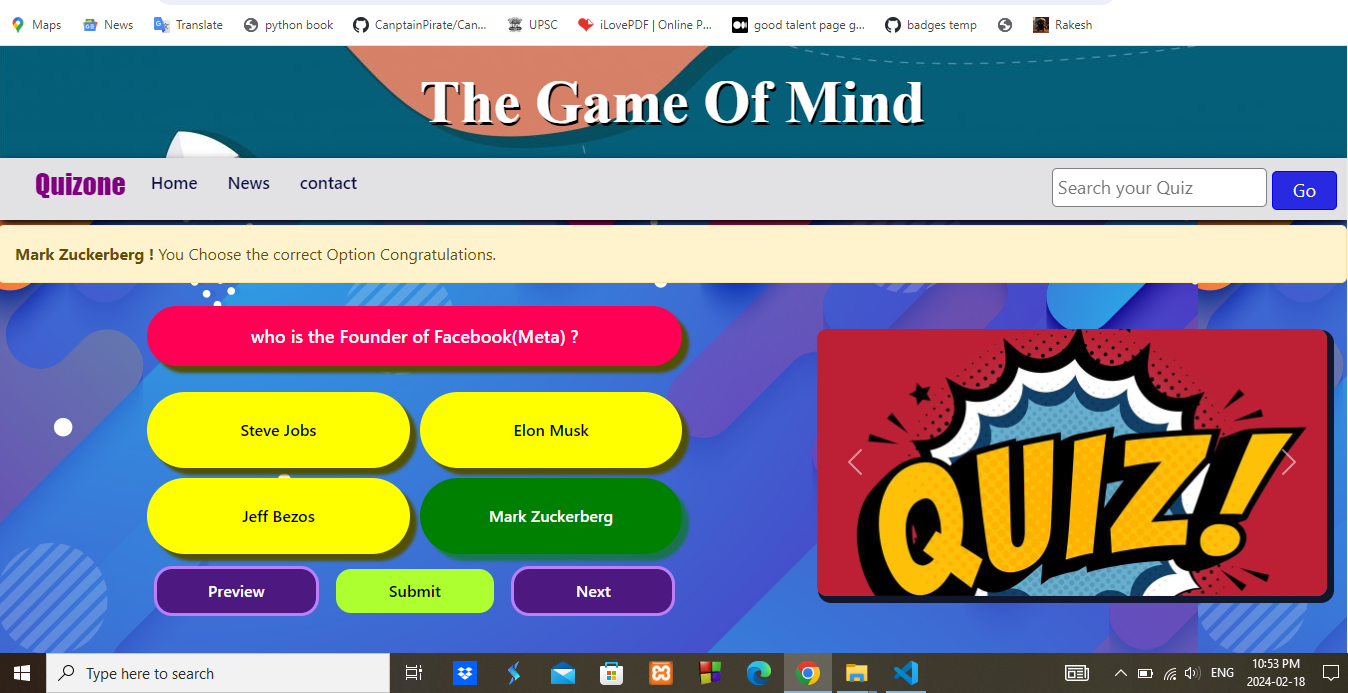
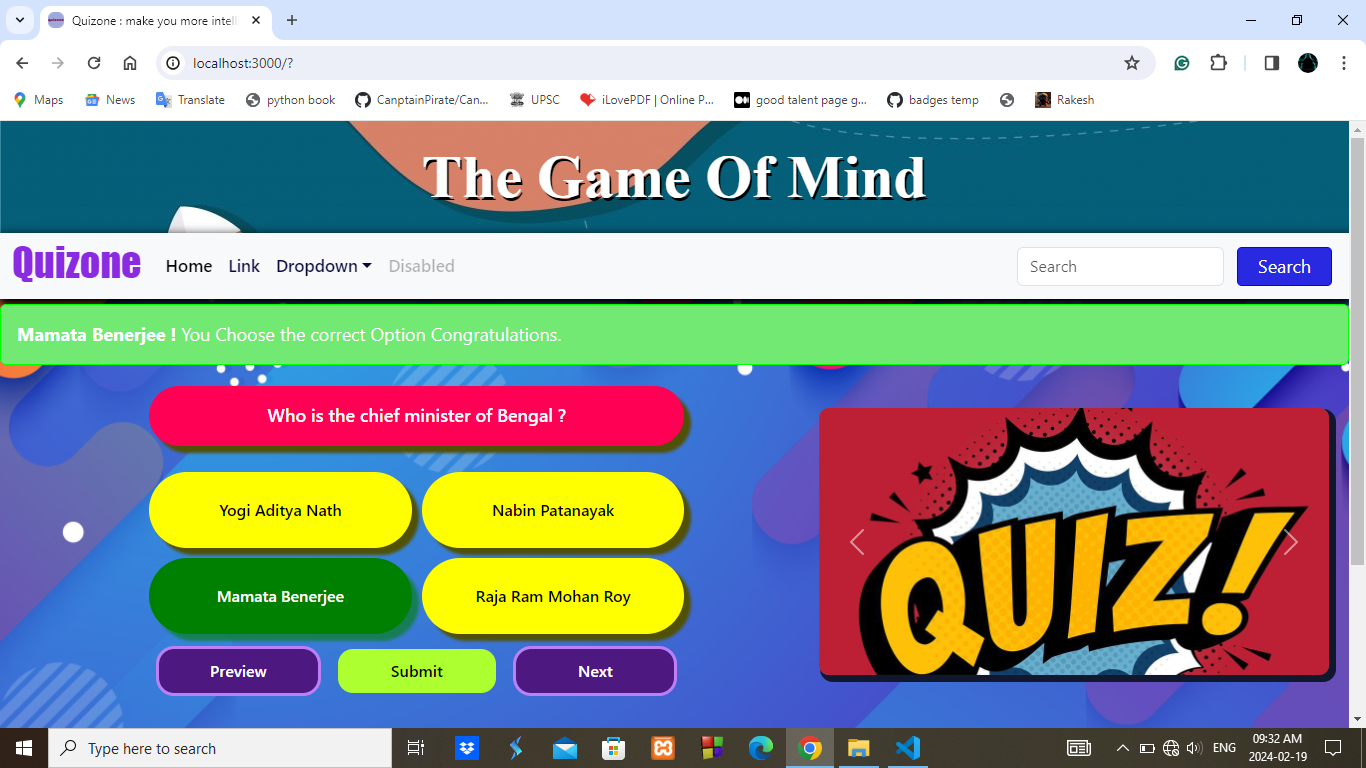
Some changes in styleSheet

diff --git a/src/components/Question.js b/src/components/Question.js
@@ -20,6 +20,7 @@ export default function Question() {
             setCurrentIndex((prevIndex) => (prevIndex + 1) % data.length);
         optElement.style = "";
     };
+
     const handlePrev = () => {
         if (currentIndex !== 0)
             setCurrentIndex((prevIndex) => (prevIndex === 0 ? data.length - 1 : prevIndex - 1));
@@ -27,7 +28,6 @@ export default function Question() {
     };
 
     const sendAnswer = (el) => {
-        // let temp2 = el.target.innerText.toLowerCase().replace(/\s/g, '')
         getAnswer(el.target.innerText);
         setOptElement(el.target);
         el.target.style = "background : orange !important;"
@@ -38,25 +38,30 @@ export default function Question() {
 
         if (answer !== null) {
             if (answer.toLowerCase().replace(/\s/g, '') === data[currentIndex]?.correctOpt.toLowerCase().replace(/\s/g, '')) {
-                document.getElementById('alertbox').innerHTML = `<strong>${answer} !</strong> You Choose the correct Option Congratulations.`
+                document.getElementById('alertbox').innerHTML = `<strong>${answer} !</strong> You Choose the correct Option Congratulations.`;
+
                 optElement.style = "background: green ; box-shadow:  7px 7px 3px 0px rgba(0, 128, 0, 0.603); color:#fff;";
                 document.getElementById('alertbox').classList.toggle('show');
                 setTimeout(() => {
                     document.getElementById('alertbox').classList.toggle('show');
+
                     optElement.style = '';
                     getAnswer(null)
                 }, 3000);
             }
             else {
                 document.getElementById('alertbox').innerHTML = `<strong>${answer} !</strong> Ohh No, you Choose the wrong option`;
+                document.getElementById('alertbox').classList.add('AlertWrong');
                 optElement.style = "background: red; color:#fff";
                 setTimeout(() => {
+
                     optElement.style = "";
                     getAnswer(null)
                 }, 1000);
                 document.getElementById('alertbox').classList.toggle('show');
                 setTimeout(() => {
                     document.getElementById('alertbox').classList.toggle('show');
+                    document.getElementById('alertbox').classList.remove('AlertWrong');
                 }, 3000);
             }
         }

diff --git a/src/components/Navigation.js b/src/components/Navigation.js
@@ -1,0 +1,47 @@
+import React from 'react'
+import './Navigation.css';
+
+export default function Navigation() {
+
+  return (
+
+    <nav className="navbar navbar-expand-lg bg-body-tertiary my-navbar">
+  <div className="container-fluid">
+    <a className="navbar-brand" href="!"><h1>Quizone</h1></a>
+    <button className="navbar-toggler" type="button" data-bs-toggle="collapse" data-bs-target="#navbarSupportedContent" aria-controls="navbarSupportedContent" aria-expanded="false" aria-label="Toggle navigation">
+      <span className="navbar-toggler-icon"></span>
+    </button>
+    <div className="collapse navbar-collapse" id="navbarSupportedContent">
+      <ul className="navbar-nav me-auto mb-2 mb-lg-0">
+        <li className="nav-item">
+          <a className="nav-link active" aria-current="page" href="/">Home</a>
+        </li>
+        <li className="nav-item">
+          <a className="nav-link" href="/">Link</a>
+        </li>
+        <li className="nav-item dropdown">
+          <a className="nav-link dropdown-toggle" href="/" role="button" data-bs-toggle="dropdown" aria-expanded="false">
+            Dropdown
+          </a>
+          <ul className="dropdown-menu">
+            <li><a className="dropdown-item" href="/">Action</a></li>
+            <li><a className="dropdown-item" href="/">Another action</a></li>
+            <li><hr className="dropdown-divider" /></li>
+            <li><a className="dropdown-item" href="/">Something else here</a></li>
+          </ul>
+        </li>
+        <li className="nav-item">
+          <a className="nav-link disabled" aria-disabled="true" href='/'>Disabled</a>
+        </li>
+      </ul>
+      <form className="d-flex" role="search">
+        <input className="form-control me-2" type="search" placeholder="Search" aria-label="Search" />
+        <button className="btn btn-outline-success" type="button">Search</button>
+      </form>
+    </div>
+  </div>
+</nav>
+
+  )  
+
+} 

diff --git a/src/components/Content.css b/src/components/Content.css
@@ -7,7 +7,9 @@
     justify-content: space-around;
     margin: 0px 0px;
     background-image: url('./images/main-bg.jpg');
-    padding: 0px 20px;
+    background-repeat: no-repeat;
+    background-size: cover;
+    padding: 10px 20px;
 
 }
 
@@ -20,13 +22,22 @@
     position: absolute;
     margin: 5px 0px;
     width: 100%;
+    background: #72e972;
+    border: 0.4px solid #00ff00;
+    color: #fff;
+    font-size: 18px;
+}
+
+.AlertWrong {
+    background: #f17878 !important;
+    border: 0.4px solid #cf2222;
 }
 
 .quiz-box {
     margin: 5px 0px;
     flex: 2;
     display: flex;
-    flex-flow: row wrap;
+    flex-flow: column wrap;
     justify-content: center;
     align-items: center;
     background-repeat: no-repeat;
@@ -34,14 +45,14 @@
 }
 
 .mycarousel {
-    width: 39%;
+    width: 100%;
     border-radius: 10px;
     overflow: hidden;
 }
 
 /* Style for Question.js file */
 .question-container {
-    width: 70%;
+    width: 100%;
     height: 50%;
     display: grid;
     grid-template-columns: repeat(2, 1fr);
@@ -154,4 +165,32 @@
 
 .wrongAns {
     background: red;
+}
+
+@media screen and (min-width:780px) {
+    .quiz-box {
+        flex-flow: row wrap;
+    }
+
+    .question-container {
+        width: 70%;
+    }
+
+    .mycarousel {
+        width: 39%;
+    }
+}
+
+@media screen and (width:912px) {
+    .quiz-box {
+        flex-flow: column wrap;
+    }
+
+    .main-container {
+        width: 100%;
+    }
+
+    .mycarousel {
+        width: 100%;
+    }
 }

diff --git a/src/components/Content.js b/src/components/Content.js
@@ -2,15 +2,15 @@ import React from 'react'
 import './Content.css';
 import Question from './Question';
 
-import CarousalImage1 from './images/quiz-slide1.jpg'
-import CarousalImage2 from './images/quiz-slid2.jpg'
-import CarousalImage3 from './images/quiz-slid3.jpg'
+import CarousalImage1 from './images/quiz-slide1.jpg';
+import CarousalImage2 from './images/quiz-slid2.jpg';
+import CarousalImage3 from './images/quiz-slid3.jpg';
 
 export default function Content() {
   return (
     <>
-      <div className="alert alert-warning alert-dismissible fade my-alert" id='alertbox' role="alert">
-        <strong>Narendra Modi !</strong> You Choose the correct option Congratulations.
+      <div className="alert alert-warning alert-dismissible fade my-alert " id='alertbox' role="alert">
+
       </div>
       <main className='main-container'>
 

diff --git a/public/index.html b/public/index.html
@@ -6,11 +6,13 @@
   <meta name="viewport" content="width=device-width, initial-scale=1" />
   <meta name="theme-color" content="#000000" />
   <meta name="description" content="Web site created using create-react-app" />
-  <link rel="apple-touch-icon" href="%PUBLIC_URL%/logo192.png" />
+  <link rel="apple-touch-icon" href="%PUBLIC_URL%/logo192.png" /> 
+  <!-- FavIcons -->
   <link rel="apple-touch-icon" sizes="180x180" href="/apple-touch-icon.png">
   <link rel="icon" type="image/png" sizes="32x32" href="/favicon-32x32.png">
   <link rel="icon" type="image/png" sizes="16x16" href="/favicon-16x16.png">
 
+  <!-- Bootstrap stylesheet -->
   <link rel="stylesheet" href="https://cdn.jsdelivr.net/npm/bootstrap@5.3.2/dist/css/bootstrap.min.css">
 
   

diff --git a/src/components/Heading.css b/src/components/Heading.css
@@ -1,9 +1,8 @@
 .app-header {
-    /* border: 1px solid orange; */
-    /* height: 200px; */
+    height: 150px;
     display: flex;
     flex-flow: column wrap;
-    justify-content: space-between;
+    justify-content: center;
     color: #fff;
     text-transform: capitalize;
     font-size: 25px;
@@ -14,7 +13,17 @@
 .app-header h1 {
     font-family: 'Times New Roman', Times, serif;
     font-weight: 900;
-    font-size: 60px;
-    margin: 20px 0px;
+    font-size: 40px;
+    margin: 10px 0px;
     align-self: center;
+}
+
+@media screen and (min-width:780px) {
+    .app-header {
+        height: auto;
+    }
+    .app-header h1 {
+        font-size: 60px;
+        margin: 20px 0px;
+    }
 }

diff --git a/src/components/Heading.js b/src/components/Heading.js
@@ -1,6 +1,6 @@
-import React from 'react'
-import Navbar from './Navbar'
-import PropTypes from 'prop-types'
+import React from 'react';
+import PropTypes from 'prop-types';
+import Navigation from './Navigation';
 
 import './Heading.css';
 
@@ -10,7 +10,7 @@ export default function Heading(props) {
       <header className='app-header'>
         <h1>{props.title}</h1>
       </header>
-      <Navbar />
+      <Navigation />
     </>
   )
 }

diff --git a/src/components/Navigation.css b/src/components/Navigation.css
@@ -1,0 +1,18 @@
+.my-navbar {
+    box-shadow: 1px 5px 10px 3px #000;
+    position: sticky;
+    top: 0;
+    background: rgb(226, 226, 228);
+    padding: 0px 0px;
+    z-index: 99;
+}
+
+.navbar-brand h1 {
+    font-family: Impact, Haettenschweiler, 'Arial Narrow Bold', sans-serif;
+    color: blueviolet;
+}
+.nav-link {
+    font-weight: 500;
+    color: #0a0a3d;
+    font-size: 17px;
+}

diff --git a/src/index.css b/src/index.css
@@ -11,7 +11,5 @@ body {
     sans-serif;
   -webkit-font-smoothing: antialiased;
   -moz-osx-font-smoothing: grayscale;
-  /* background-image: url('./components/images/main-bg.jpg'); */
-  /* background-position: center; */
   background-size: cover;
 }

diff --git a/src/App.js b/src/App.js
@@ -3,7 +3,6 @@ import './App.css';
 import Footer from './components/Footer';
 import Heading from './components/Heading';
 import Content from './components/Content';
-// import SideInfo from './components/SideInfo';
 
 function App() {
   return (

diff --git a/README.md b/README.md
@@ -4,13 +4,18 @@
 
 **Using Fetch API**
 
+
+
+**Site Preview:-**
 <a href="#!">![Site Preview](./public/site-preview.png)</a>
+
+
+<a href="#!">![Site Preview](./public/wrong-ans-preview.png)</a>
 
 <a href="#!" align="center">Live site is not available yet .</a>
 
 - Some Key points about this repo:
    - This is a simple quiz website repo
-   - If you are reading this, then this site is not responsive yet.
    - it is a very simple and user friendly quiz game
    - Contents of this site is comming from a JSON file using Fetch API.
 
